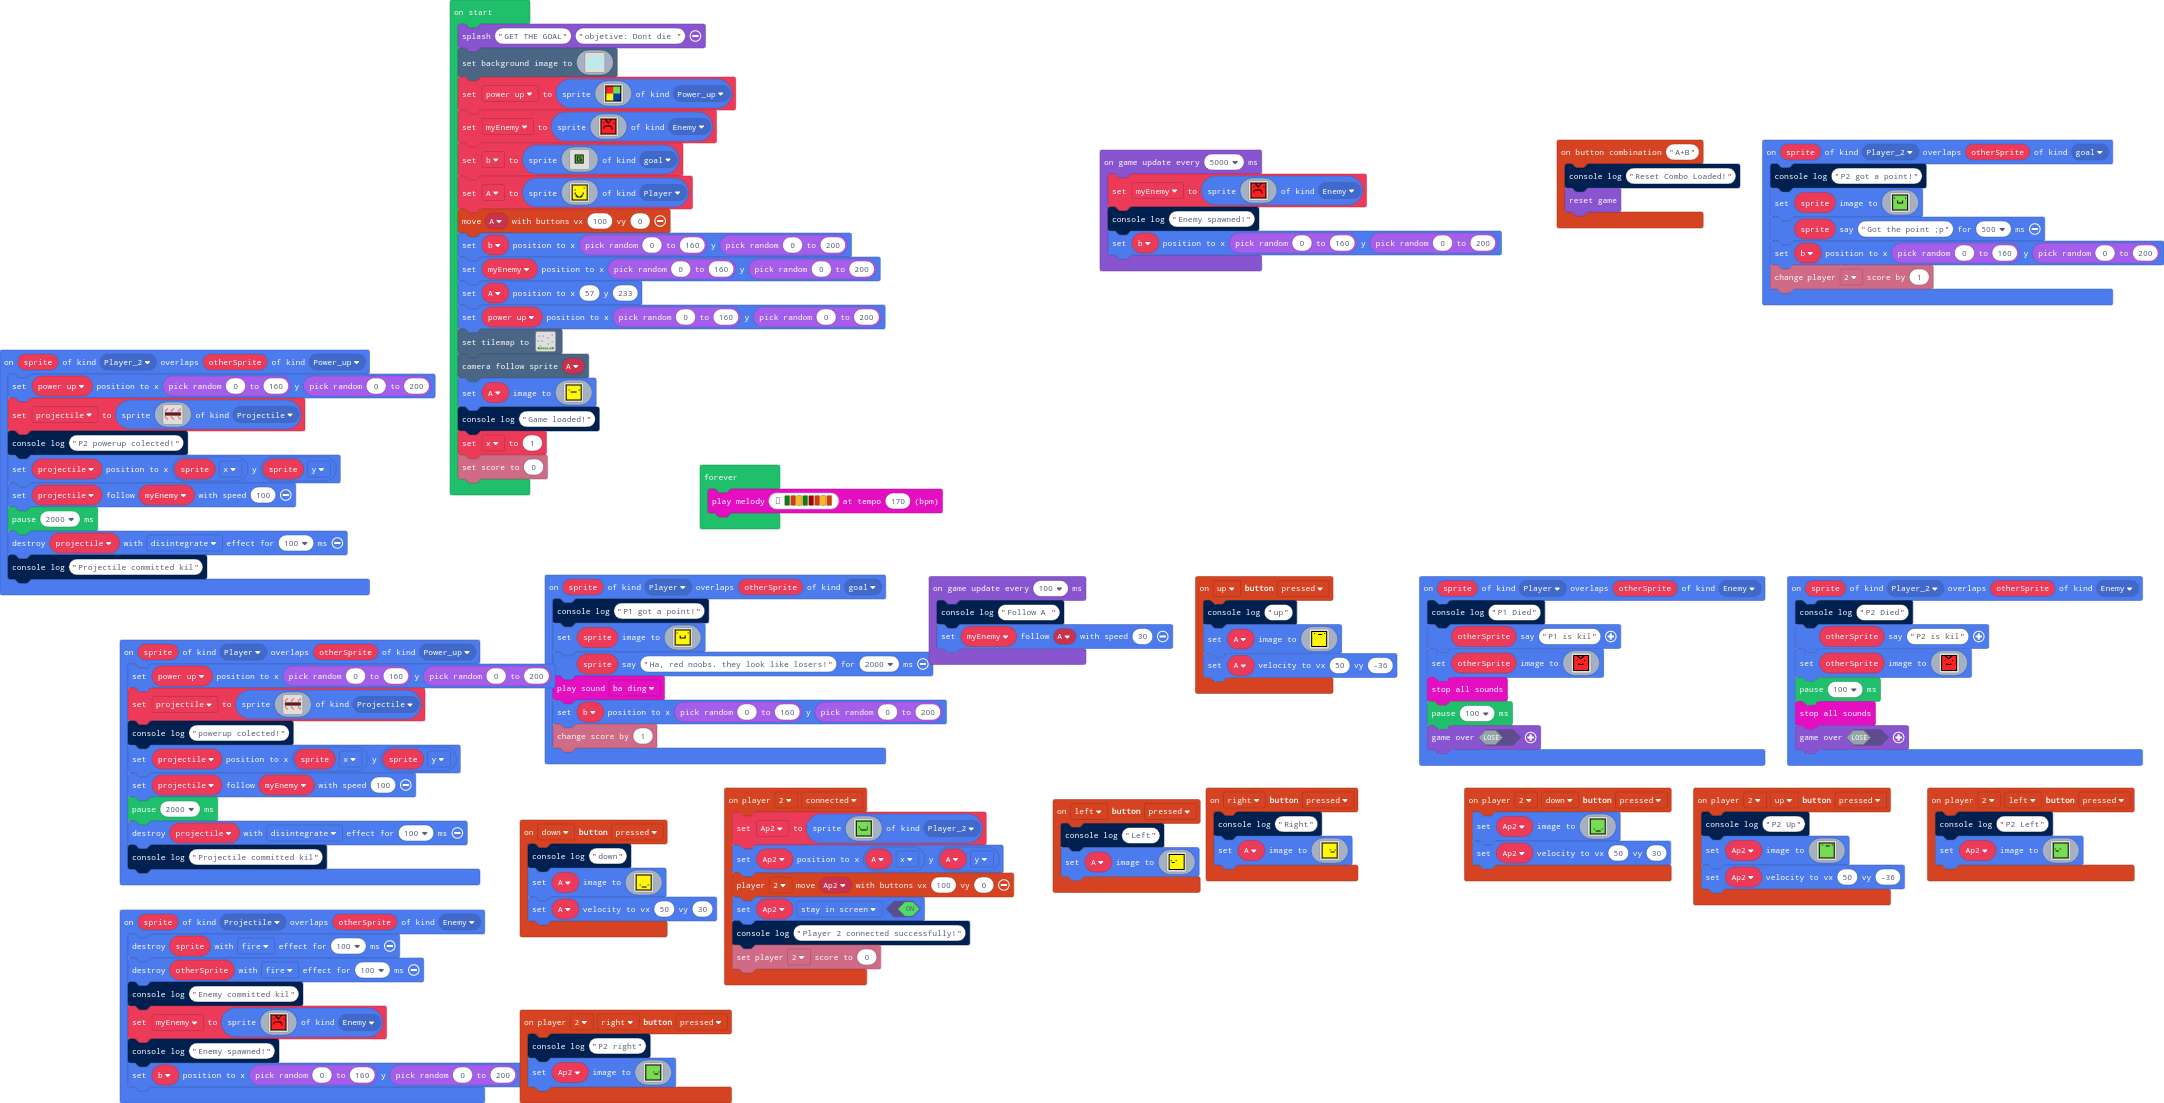
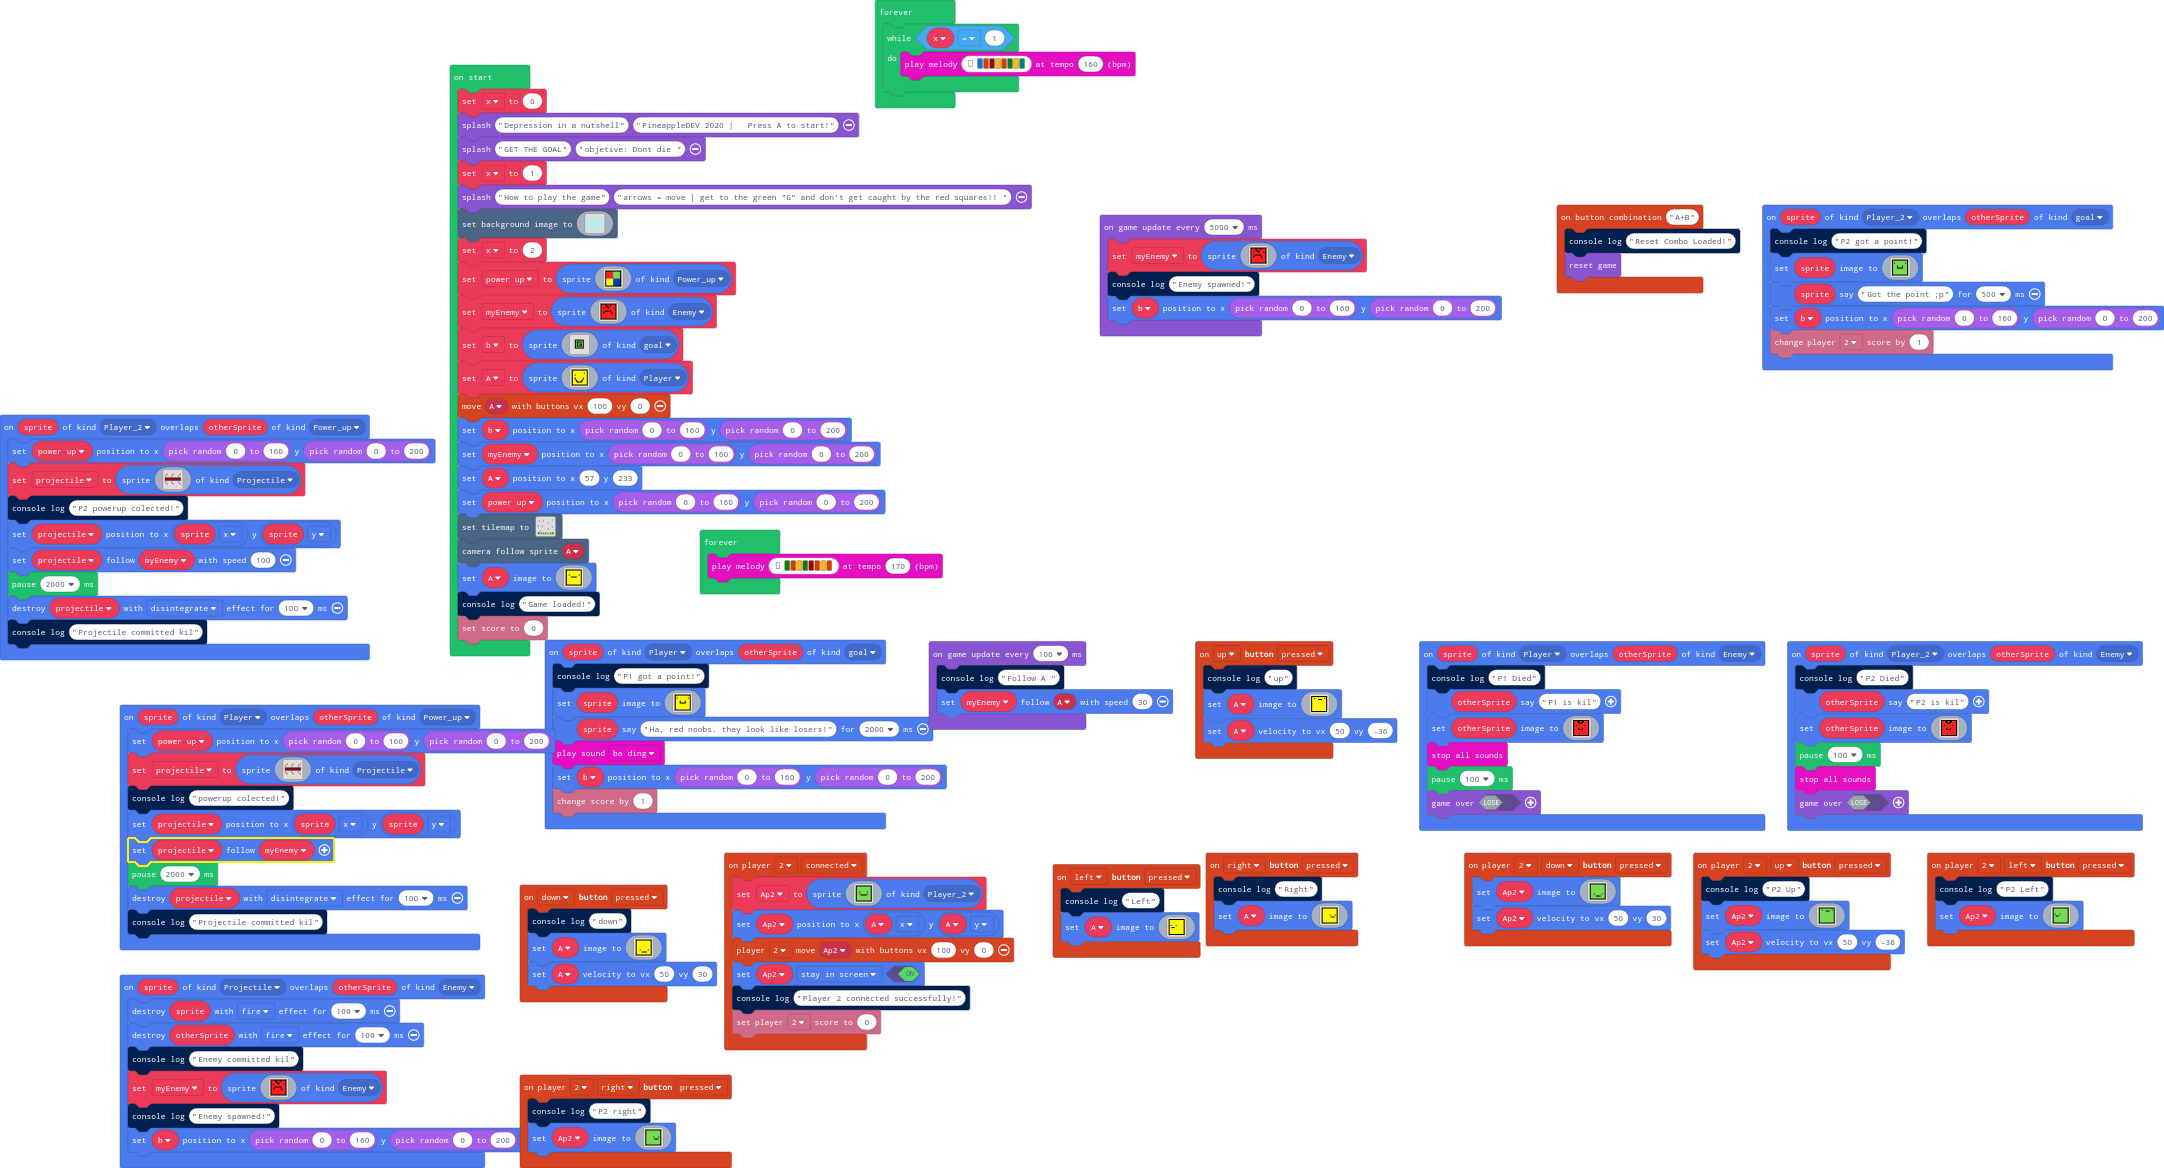
added 3 new splash screens!!! and a how to play! version 1.1 coming soon...

diff --git a/main.ts b/main.ts
@@ -419,7 +419,7 @@ f f f f f f f f f f f f f f f f
 `, SpriteKind.Projectile)
     console.log("powerup colected!")
     projectile.setPosition(sprite.x, sprite.y)
-    projectile.follow(myEnemy, 100)
+    projectile.follow(myEnemy)
     pause(2000)
     projectile.destroy(effects.disintegrate, 100)
     console.log("Projectile committed kil")
@@ -504,7 +504,11 @@ let A: Sprite = null
 let b: Sprite = null
 let myEnemy: Sprite = null
 let power_up: Sprite = null
+let x = 0
+game.splash("Depression in a nutshell", "PineappleDEV 2020 |   Press A to start!")
 game.splash("GET THE GOAL", "objetive: Dont die ")
+x = 1
+game.splash("How to play the game", "arrows = move | get to the green \"G\" and don't get caught by the red squares!! ")
 scene.setBackgroundImage(img`
 9 9 9 9 9 9 9 9 9 9 9 9 9 9 9 9 9 9 9 9 9 9 9 9 9 9 9 9 9 9 9 9 9 9 9 9 9 9 9 9 9 9 9 9 9 9 9 9 9 9 9 9 9 9 9 9 9 9 9 9 9 9 9 9 9 9 9 9 9 9 9 9 9 9 9 9 9 9 9 9 9 9 9 9 9 9 9 9 9 9 9 9 9 9 9 9 9 9 9 9 9 9 9 9 9 9 9 9 9 9 9 9 9 9 9 9 9 9 9 9 9 9 9 9 9 9 9 9 9 9 9 9 9 9 9 9 9 9 9 9 9 9 9 9 9 9 9 9 9 9 9 9 9 9 9 9 9 9 9 9 
 9 9 9 9 9 9 9 9 9 9 9 9 9 9 9 9 9 9 9 9 9 9 9 9 9 9 9 9 9 9 9 9 9 9 9 9 9 9 9 9 9 9 9 9 9 9 9 9 9 9 9 9 9 9 9 9 9 9 9 9 9 9 9 9 9 9 9 9 9 9 9 9 9 9 9 9 9 9 9 9 9 9 9 9 9 9 9 9 9 9 9 9 9 9 9 9 9 9 9 9 9 9 9 9 9 9 9 9 9 9 9 9 9 9 9 9 9 9 9 9 9 9 9 9 9 9 9 9 9 9 9 9 9 9 9 9 9 9 9 9 9 9 9 9 9 9 9 9 9 9 9 9 9 9 9 9 9 9 9 9 
@@ -627,6 +631,7 @@ scene.setBackgroundImage(img`
 9 9 9 9 9 9 9 9 9 9 9 9 9 9 9 9 9 9 9 9 9 9 9 9 9 9 9 9 9 9 9 9 9 9 9 9 9 9 9 9 9 9 9 9 9 9 9 9 9 9 9 9 9 9 9 9 9 9 9 9 9 9 9 9 9 9 9 9 9 9 9 9 9 9 9 9 9 9 9 9 9 9 9 9 9 9 9 9 9 9 9 9 9 9 9 9 9 9 9 9 9 9 9 9 9 9 9 9 9 9 9 9 9 9 9 9 9 9 9 9 9 9 9 9 9 9 9 9 9 9 9 9 9 9 9 9 9 9 9 9 9 9 9 9 9 9 9 9 9 9 9 9 9 9 9 9 9 9 9 9 
 9 9 9 9 9 9 9 9 9 9 9 9 9 9 9 9 9 9 9 9 9 9 9 9 9 9 9 9 9 9 9 9 9 9 9 9 9 9 9 9 9 9 9 9 9 9 9 9 9 9 9 9 9 9 9 9 9 9 9 9 9 9 9 9 9 9 9 9 9 9 9 9 9 9 9 9 9 9 9 9 9 9 9 9 9 9 9 9 9 9 9 9 9 9 9 9 9 9 9 9 9 9 9 9 9 9 9 9 9 9 9 9 9 9 9 9 9 9 9 9 9 9 9 9 9 9 9 9 9 9 9 9 9 9 9 9 9 9 9 9 9 9 9 9 9 9 9 9 9 9 9 9 9 9 9 9 9 9 9 9 
 `)
+x = 2
 power_up = sprites.create(img`
 f f f f f f f f f f f f f f f f 
 f 2 2 2 2 2 2 2 7 7 7 7 7 7 7 f 
@@ -747,7 +752,6 @@ f 5 5 5 5 5 5 5 5 5 5 5 5 5 5 f
 f f f f f f f f f f f f f f f f 
 `)
 console.log("Game loaded!")
-let x = 1
 info.setScore(0)
 game.onUpdateInterval(100, function () {
     console.log("Follow A ")
@@ -774,6 +778,11 @@ f f f f f f f f f f f f f f f f
 `, SpriteKind.Enemy)
     console.log("Enemy spawned!")
     b.setPosition(Math.randomRange(0, 160), Math.randomRange(0, 200))
+})
+forever(function () {
+    while (x == 1) {
+        music.playMelody("E B C5 A B G A F ", 160)
+    }
 })
 forever(function () {
     music.playMelody("G B A G C5 B A B ", 170)
